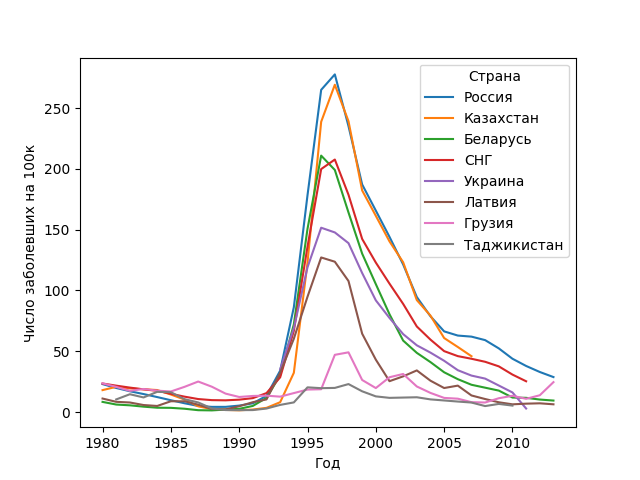
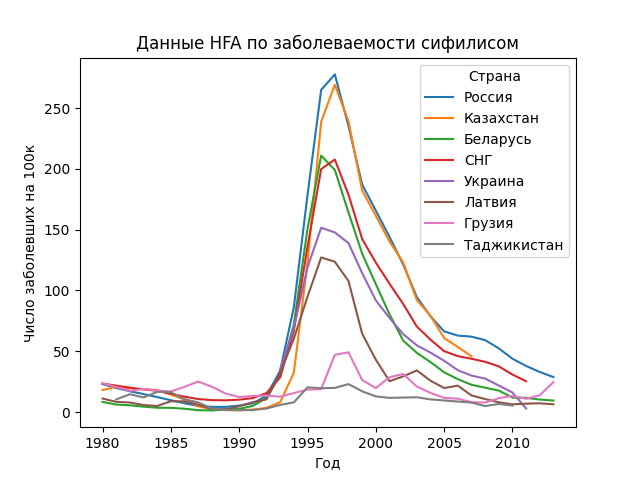
Добавили название

Changed region(s): [[0.2188, 0.0625, 0.8125, 0.125]]

diff --git a/main.py b/main.py
@@ -50,6 +50,6 @@ sns.lineplot(
     x='Год',
     y='Число заболевших на 100к',
     hue='Страна',
-).set(xlabel='Год', ylabel='Число заболевших на 100к')
+).set(xlabel='Год', ylabel='Число заболевших на 100к', title='Данные HFA по заболеваемости сифилисом')
 
 plt.show()
